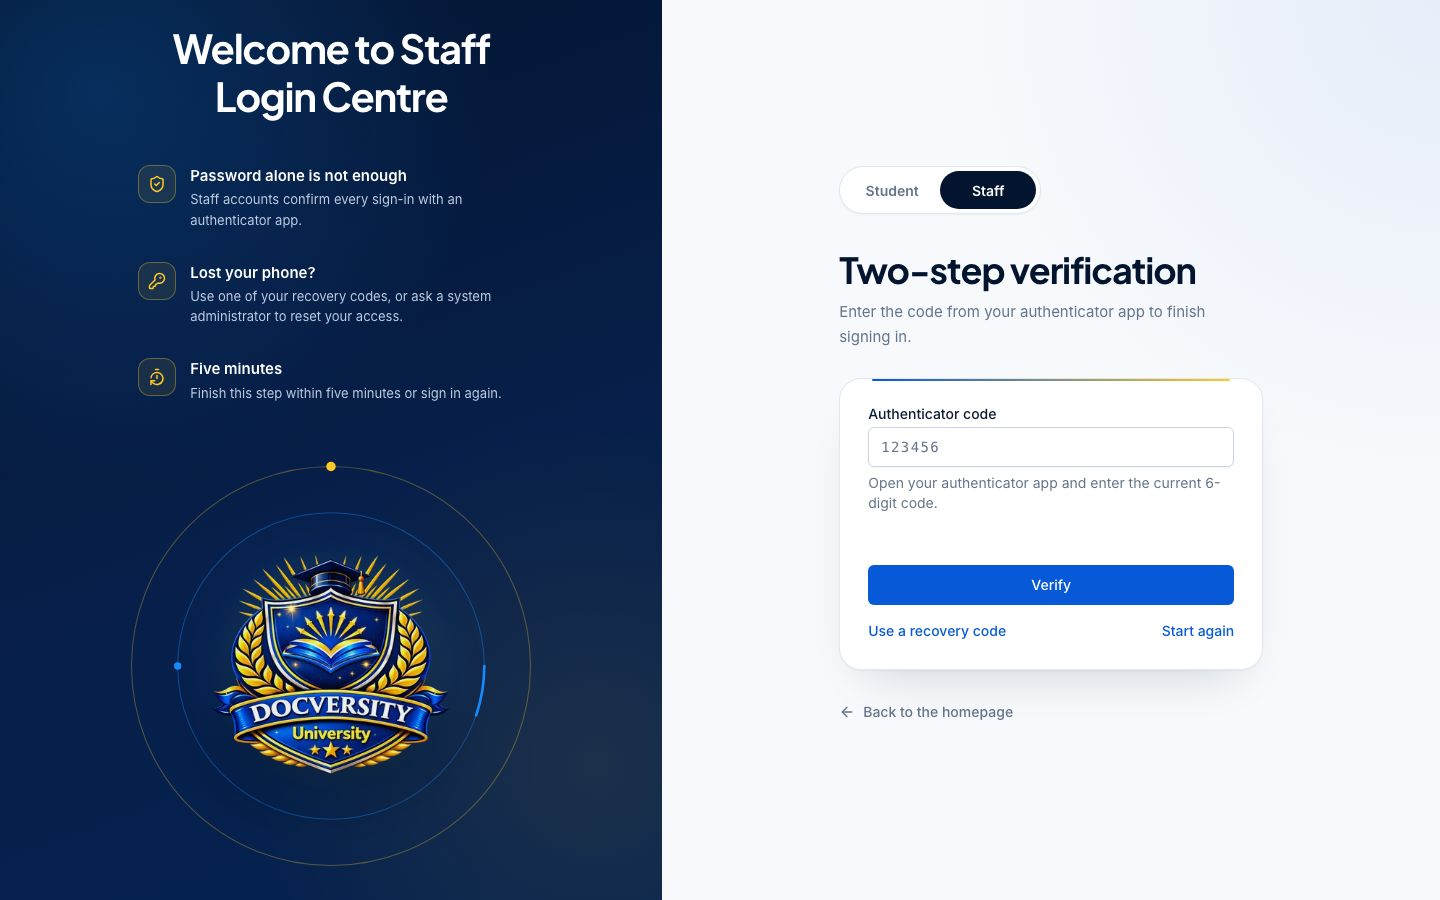
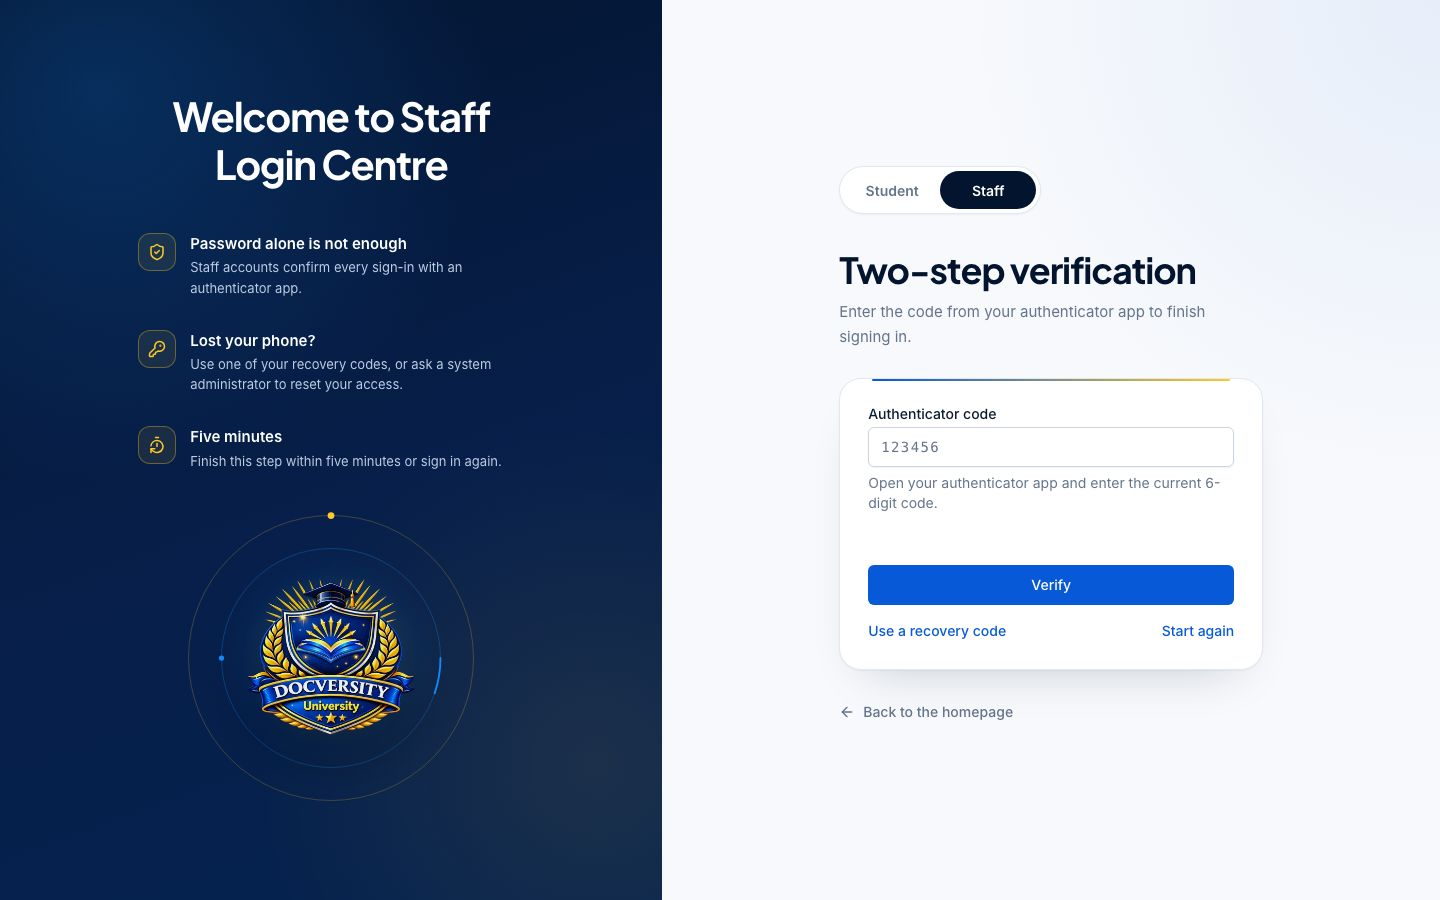
fix(web): staff step pages fit short screens; login h1 in main
- Step pages with instructions clipped the heading at 1366x768 and below:
  smaller crest and safe centering on short desktops (measured 1024-1440).
- Staff login h1 now sits (visually hidden) in <main>; the brand panel copy
  is decorative, so the skip link lands on the page heading.
- Tests: MFA verify page heading order and instructions; activation keeps
  its wordmark, steps and footer.

diff --git a/apps/web/test/staff-auth-visual.test.tsx b/apps/web/test/staff-auth-visual.test.tsx
@@ -13,6 +13,7 @@ vi.mock('@/lib/server-auth', () => ({
   getSessionState: () => Promise.resolve(session.state),
 }));
 import AdminLoginPage from '@/app/admin/login/page';
+import MfaVerifyPage from '@/app/admin/login/verify/page';
 import { StudentAuthPage } from '@/features/student-portal/auth-page';
 
 beforeEach(() => {
@@ -31,8 +32,11 @@ it('shows only the crest and "Welcome to Staff Login Centre" before the staff lo
     /^Welcome to Staff Login Centre$/,
   );
   expect(screen.getAllByRole('heading')).toHaveLength(1);
+  // The page heading is in main (skip-link target); the brand panel repeats it visually only.
+  expect(within(screen.getByRole('main')).getByRole('heading', { level: 1 })).toBeInTheDocument();
   const visual = screen.getByRole('complementary');
   expect(visual).toHaveTextContent(/^Welcome to Staff Login Centre$/);
+  expect(within(visual).queryByRole('heading')).not.toBeInTheDocument();
   expect(within(visual).getByTestId('crest')).toBeInTheDocument();
   expect(within(visual).queryByRole('list')).not.toBeInTheDocument();
   expect(within(visual).queryByRole('link')).not.toBeInTheDocument();
@@ -61,16 +65,40 @@ it('keeps the availability notice when sign-in is unavailable', async () => {
   expect(screen.getByRole('status')).toHaveTextContent('Sign-in is temporarily unavailable');
 });
 
-it('uses the same layout hook as student sign-in, which keeps its own heading and description', () => {
-  const { container } = render(
-    <StudentAuthPage title="Sign in" description="Existing description" unavailable={false}>
-      <button>Existing login form</button>
+it('keeps the MFA step title, instructions and recovery option under the staff heading', async () => {
+  session.state = {
+    status: 'authenticated',
+    user: { nextStep: 'MFA_VERIFY' },
+  } as unknown as typeof session.state;
+  render(await MfaVerifyPage());
+  expect(screen.getByRole('heading', { level: 1 })).toHaveTextContent('Two-step verification');
+  expect(screen.getByRole('heading', { level: 2 })).toHaveTextContent(
+    'Welcome to Staff Login Centre',
+  );
+  expect(
+    screen.getByText('Enter the code from your authenticator app to finish signing in.'),
+  ).toBeInTheDocument();
+  expect(screen.getByText('Lost your phone?')).toBeInTheDocument();
+  expect(screen.getByLabelText('Authenticator code')).toBeInTheDocument();
+});
+
+it('leaves student activation with its wordmark, steps and footer', () => {
+  render(
+    <StudentAuthPage
+      title="Activate"
+      description="Existing"
+      unavailable={false}
+      variant="activation"
+    >
+      <button>Existing activation form</button>
     </StudentAuthPage>,
   );
-  expect(screen.getByRole('heading', { level: 1, name: 'Sign in' })).toBeInTheDocument();
-  expect(screen.getByRole('heading', { level: 2 })).toHaveTextContent(
-    'Welcome to Verification Portal',
+  const visual = screen.getByRole('complementary');
+  expect(within(visual).getByRole('link', { name: 'Docversity home' })).toHaveAttribute(
+    'href',
+    '/',
   );
-  expect(screen.getByText('Existing description')).toBeInTheDocument();
-  expect(container.querySelector('[data-audience="student"]')).toBeInTheDocument();
+  expect(within(visual).getByText(/Academic Verification & Records Portal/)).toBeInTheDocument();
+  expect(within(visual).getAllByRole('listitem')).toHaveLength(3);
+  expect(screen.getByRole('heading', { level: 1, name: 'Activate' })).toBeInTheDocument();
 });

diff --git a/apps/web/src/components/auth/auth-shell.tsx b/apps/web/src/components/auth/auth-shell.tsx
@@ -20,7 +20,7 @@ export interface AuthHighlight {
  * the page passes its existing form, heading, description and availability notice unchanged. The
  * brand panel carries the homepage's navy/gold world; the form side stays on the light product
  * surface used inside the portals. Staff pages use the student sign-in layout (centred heading over
- * the crest); without a `title`, the brand statement is the page heading (Staff Login Centre).
+ * the crest); without a `title`, the brand statement is also the page's (visually hidden) h1 in main.
  */
 export function AuthShell({
   audience,
@@ -42,7 +42,6 @@ export function AuthShell({
 }) {
   const student = audience !== 'staff';
   const activation = audience === 'activation';
-  const Statement = title ? 'h2' : 'h1';
   return (
     <div className={styles.shell} data-audience={audience}>
       <aside
@@ -93,8 +92,13 @@ export function AuthShell({
         <div className={styles.story}>
           {activation ? (
             <p className={styles.statement}>{statement}</p>
+          ) : title ? (
+            <h2 className={styles.statement}>{statement}</h2>
           ) : (
-            <Statement className={styles.statement}>{statement}</Statement>
+            // Visual copy only; the page heading is the h1 in <main> below.
+            <p className={styles.statement} aria-hidden="true">
+              {statement}
+            </p>
           )}
           {highlights.length > 0 && (
             <ul className={styles.highlights}>
@@ -140,7 +144,11 @@ export function AuthShell({
             <span className={styles.switchThumb} aria-hidden="true" />
           </nav>
 
-          {title && <h1 className={styles.title}>{title}</h1>}
+          {title ? (
+            <h1 className={styles.title}>{title}</h1>
+          ) : (
+            <h1 className={styles.srOnly}>{statement}</h1>
+          )}
           {description && <p className={styles.description}>{description}</p>}
 
           {unavailable && (

diff --git a/apps/web/src/components/auth/auth-shell.module.css b/apps/web/src/components/auth/auth-shell.module.css
@@ -494,3 +494,22 @@
   margin-inline: auto;
   text-align: left;
 }
+
+/* Staff step pages also list instructions in the brand panel: a smaller crest keeps the heading in
+   view on short desktop screens, and `safe` lets only the decorative crest overflow, never the text. */
+@media (min-width: 1024px) {
+  .shell[data-audience='staff']:has(.highlights) .brand {
+    justify-content: safe center;
+    gap: 24px;
+  }
+
+  .shell[data-audience='staff']:has(.highlights) .ambient {
+    width: min(100%, 300px);
+  }
+}
+
+@media (min-width: 1024px) and (max-height: 820px) {
+  .shell[data-audience='staff']:has(.highlights) .ambient {
+    width: min(100%, 200px);
+  }
+}

diff --git a/docs/development/staff-login-centre-20261118.md b/docs/development/staff-login-centre-20261118.md
@@ -3,7 +3,8 @@
 `/admin/login` now uses the student sign-in layout: the navy brand panel with one centred heading,
 **Welcome to Staff Login Centre**, above the Docversity crest, and the light form side with the
 Student/Staff switch and the form card. The old staff statement, highlights, wordmark, footer, form
-title ("Staff sign in") and description were removed. The heading is the page's only `h1`.
+title ("Staff sign in") and description were removed. The heading text is the page's only `h1`, placed (visually hidden) in `<main>` so the skip link
+lands on it; the brand panel shows the same words as decoration.
 
 The old design came from the page itself (`app/admin/login/page.tsx` passing staff copy to the shared
 `AuthShell`), not from cached assets or a deployed image. `AuthShell` now renders staff pages in the
@@ -22,6 +23,8 @@ the diff touches only `AuthShell`, its CSS, two page files and tests.
   three staff step pages and the student pages; keyboard order switch → Email → Password → Sign in →
   Back; required fields block empty submit; the API error message renders in the form.
 - Student sign-in and activation screenshots are byte-identical before and after.
+- Step pages (with instructions in the brand panel) keep the heading in view at 1440×900, 1366×768,
+  1280×720 and 1024×768: a smaller crest and `justify-content: safe center` on short desktops.
 - e2e `admin-auth.spec.ts` asserts the new heading and the removed copy (CI runs the full stack).
 
 ## Screenshots
